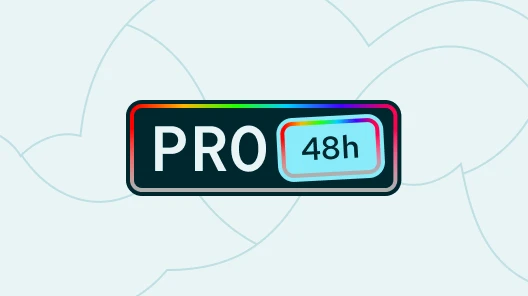
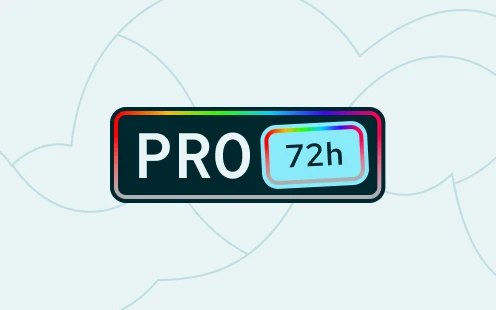
feat: update trial time to 72 hours and fix typos

diff --git a/src/content/locals.ts b/src/content/locals.ts
@@ -390,15 +390,15 @@ export const locals: { [key: string]: any } = {
         message:
           'This upgrade will unlock a range of tools that enable you to convert your color palette into a color system. We hope you will enjoy the benefits.',
         trial:
-          'This upgrade will unlock a range of tools that enable you to convert your color palette into a color system. We hope you will enjoy the benefits for the next 48 hours.',
+          'This upgrade will unlock a range of tools that enable you to convert your color palette into a color system. We hope you will enjoy the benefits for the next 72 hours.',
         cta: "Let's build",
       },
       trial: {
         title:
-          'Would you like to upgrade to the Pro plan within the next 48 hours?',
+          'Would you like to upgrade to the Pro plan within the next 72 hours?',
         message:
           'Explore the potential of synchronizing your color palette with variables, exporting it as design tokens, app resources, or for Tokens Studio and simulating a vision impairment.',
-        cta: 'Enable the 48-hour trial',
+        cta: 'Enable the 72-hour trial',
         option: 'Purchase',
       },
     },

diff --git a/src/utils/config.ts b/src/utils/config.ts
@@ -1,7 +1,7 @@
 import { Feature } from '../types/app'
 
-export const trialTime = 48
-export const oldTrialTime = 168
+export const trialTime = 72
+export const oldTrialTime = 48
 
 export const pageSize = 20
 export const workerUrl = process.env.REACT_APP_WORKER_URL as string
